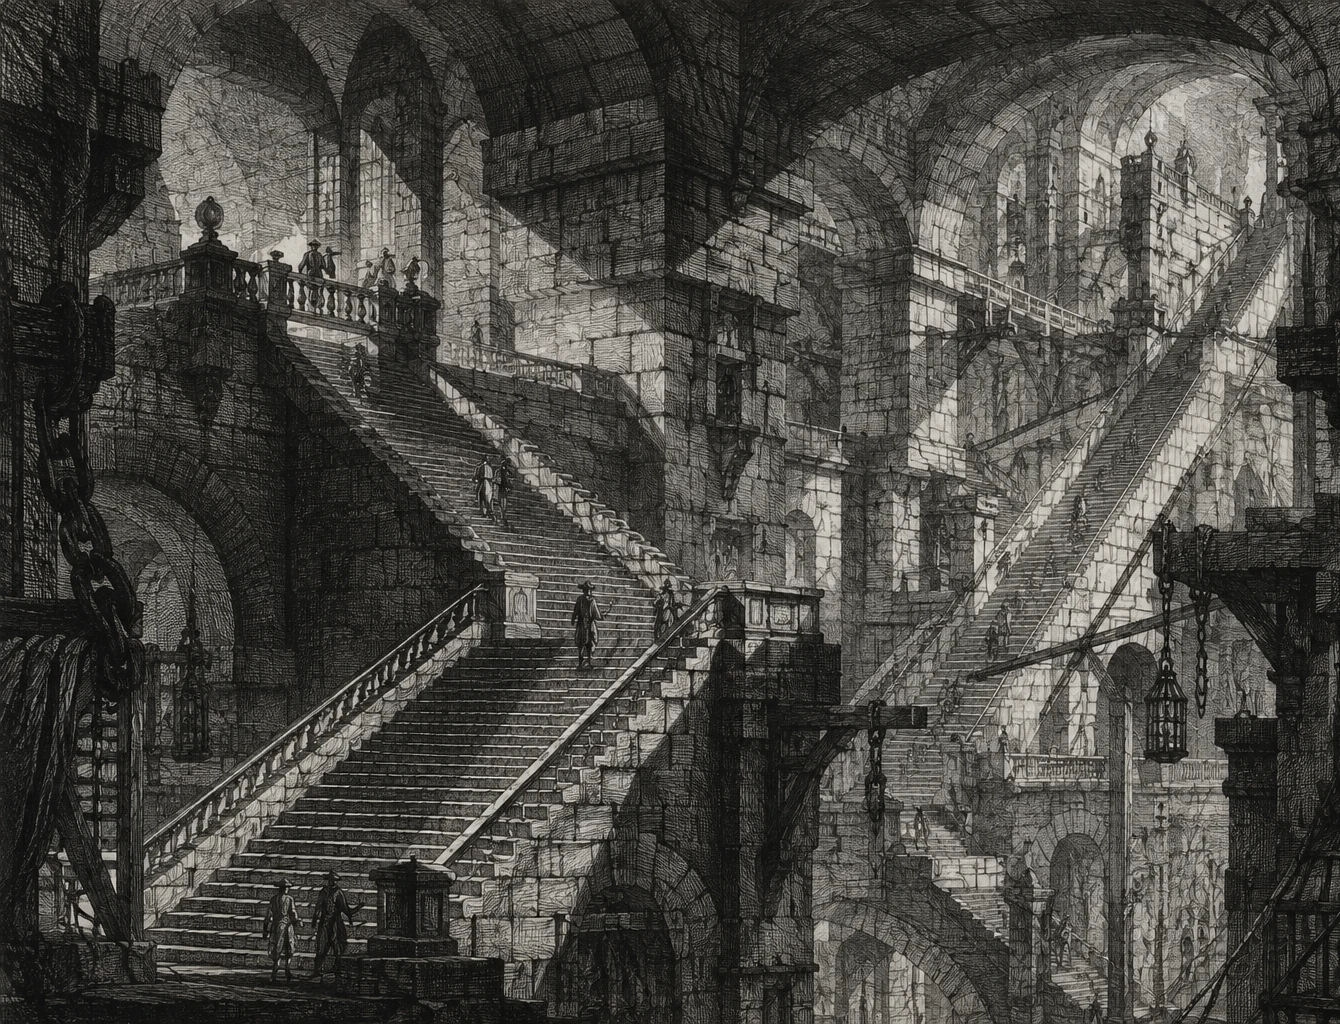
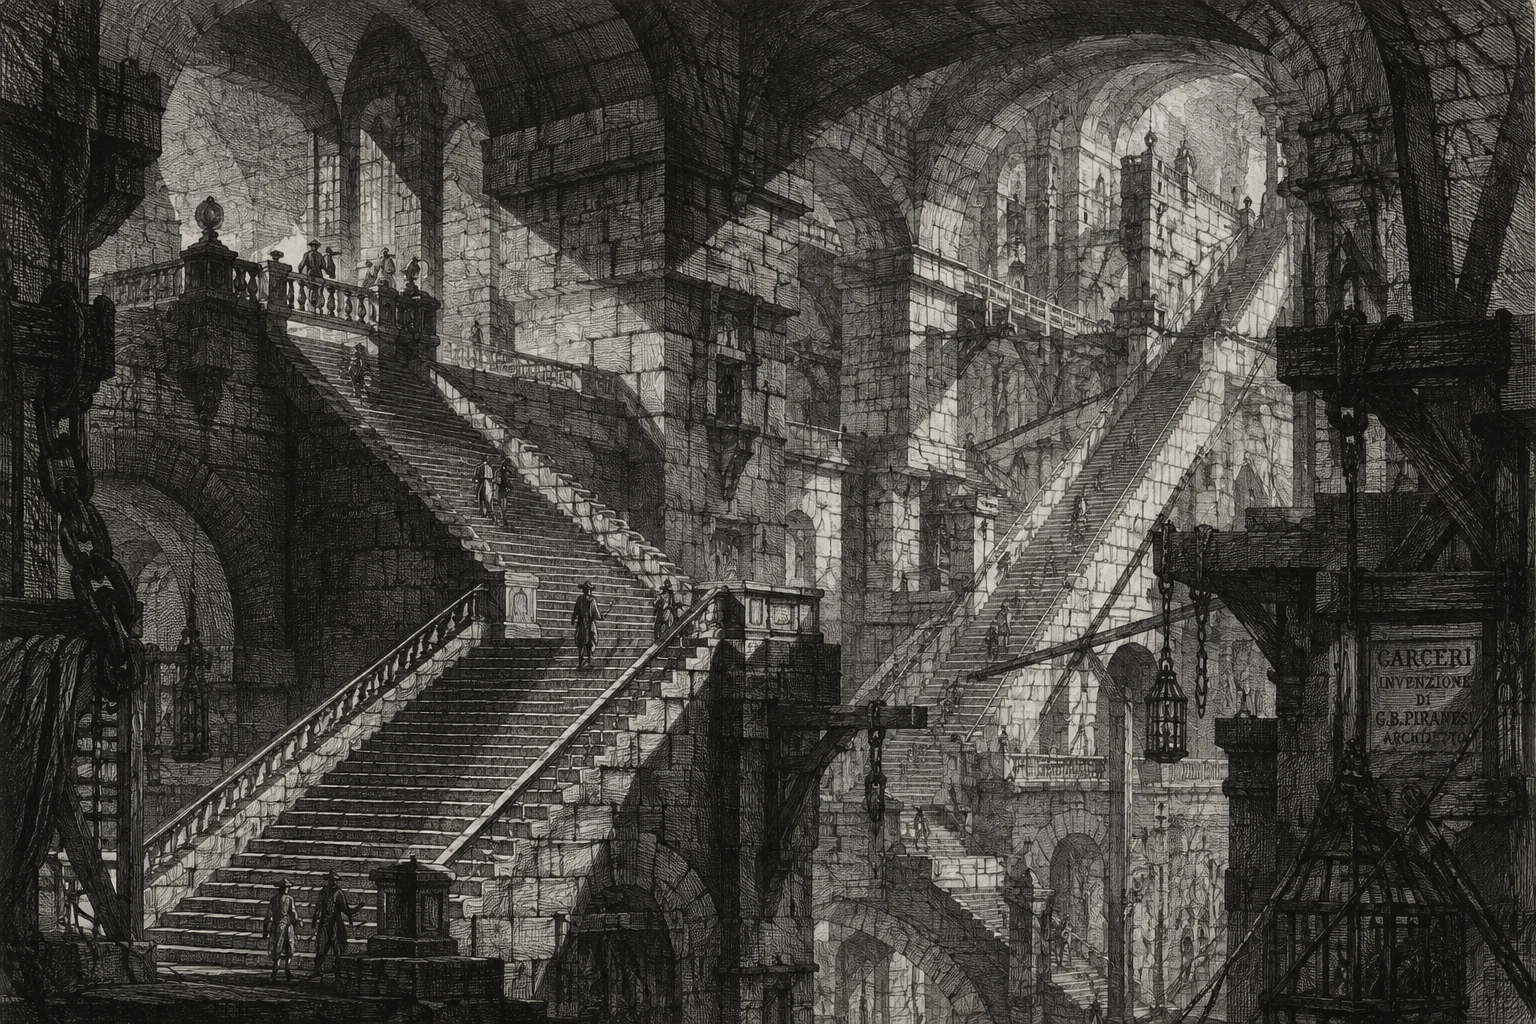
first-draft: replace the optima diagram with the staircase image

diff --git a/src/content/blog/first-draft.md b/src/content/blog/first-draft.md
@@ -22,15 +22,13 @@ The instinct is to blame the training. Wrong dataset, wrong hyperparameters, too
 
 Eventually we notice the reward curve never stopped climbing. It went up the entire time the outputs were collapsing. That's the part worth sitting with. Nothing failed. The reward function did exactly what it was built to do, every step, and the result was a model that can't surprise us.
 
-![A reward landscape with a lower local optimum and a higher global optimum. A solid arrow climbs to the local peak, where selection settles. A dotted route continues from there down through a valley and up to the global peak, and every step of that route scores lower than the peak it left behind.](/blog/first-draft/image_1.svg)
+![An immense architecture of stone staircases. One grand stair climbs flight after flight to a landing high in the air where figures stand as though they have arrived. Across the void another stair rises higher still, and the only way to reach its foot is to descend all the way to the floor of the hall.](/blog/first-draft/image_2.webp)
 
 There is a paper, [Abandoning Objectives: Evolution Through the Search for Novelty Alone](https://stars.library.ucf.edu/facultybib2010/1530/), and it names the failure precisely: deception. An objective encodes what the goal looks like and rewards resemblance to it. But resembling the goal and being on the route to it are different properties, and nothing makes them line up.
 
 Their example is a Chinese finger trap. Pulling the fingers apart is the direct move and it tightens the trap. The move that works is pushing them together, which looks like the opposite of progress. Any score built on how close the fingers are to free will penalise the only action that frees them.
 
 What makes this more than a puzzle is the generalisation: the objective function does not necessarily reward the stepping stones that lead to the objective. The intermediate states along the way often don't resemble the destination. Sometimes they resemble failure. And this is exactly what appears to be happening in a creativity finetune: an early draft of something genuinely unusual reads, to a reward model, as incoherent. Which is what it is. Coherence is what it acquires later.
-
-![An immense architecture of stone staircases. One grand stair climbs flight after flight to a landing high in the air where figures stand as though they have arrived. Across the void another stair rises higher still, and the only way to reach its foot is to descend all the way to the floor of the hall.](/blog/first-draft/image_2.webp)
 
 So follow one of those intermediates through. It appears. It gets scored. It scores below what we already have, so selection discards it: that step, before it produces anything, before it can show what it was a step toward. Next round the same thing appears and is discarded again.
 
